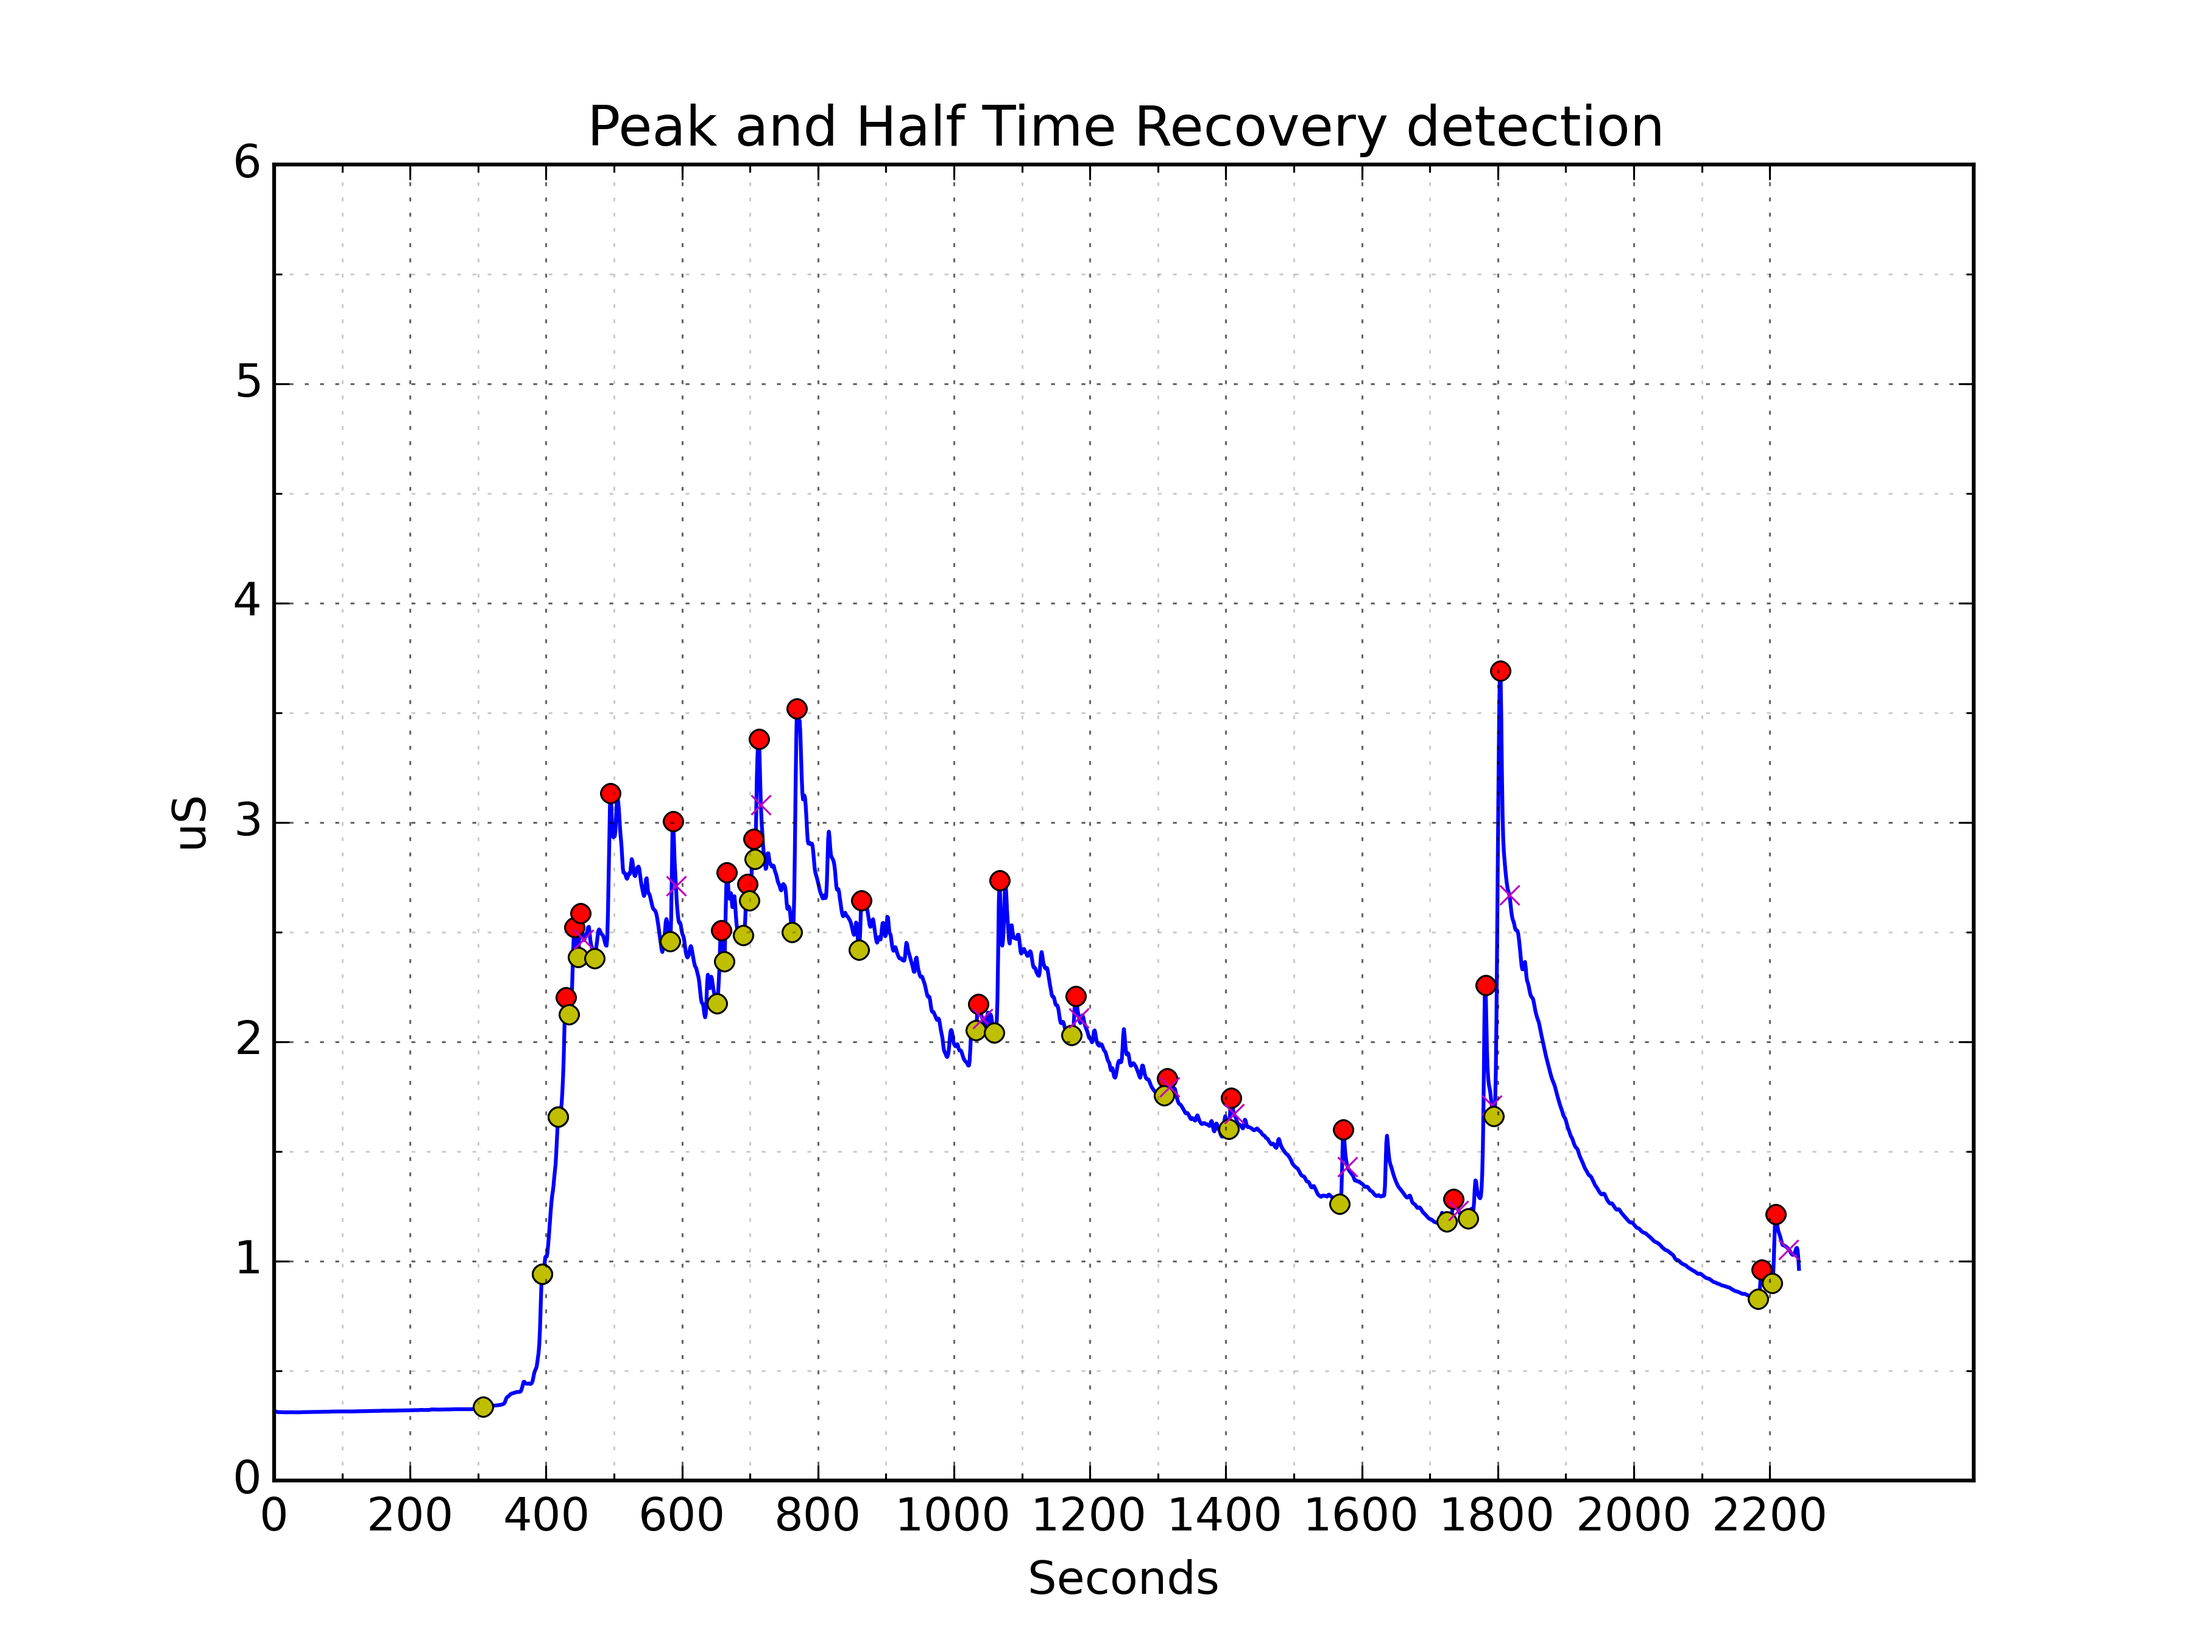
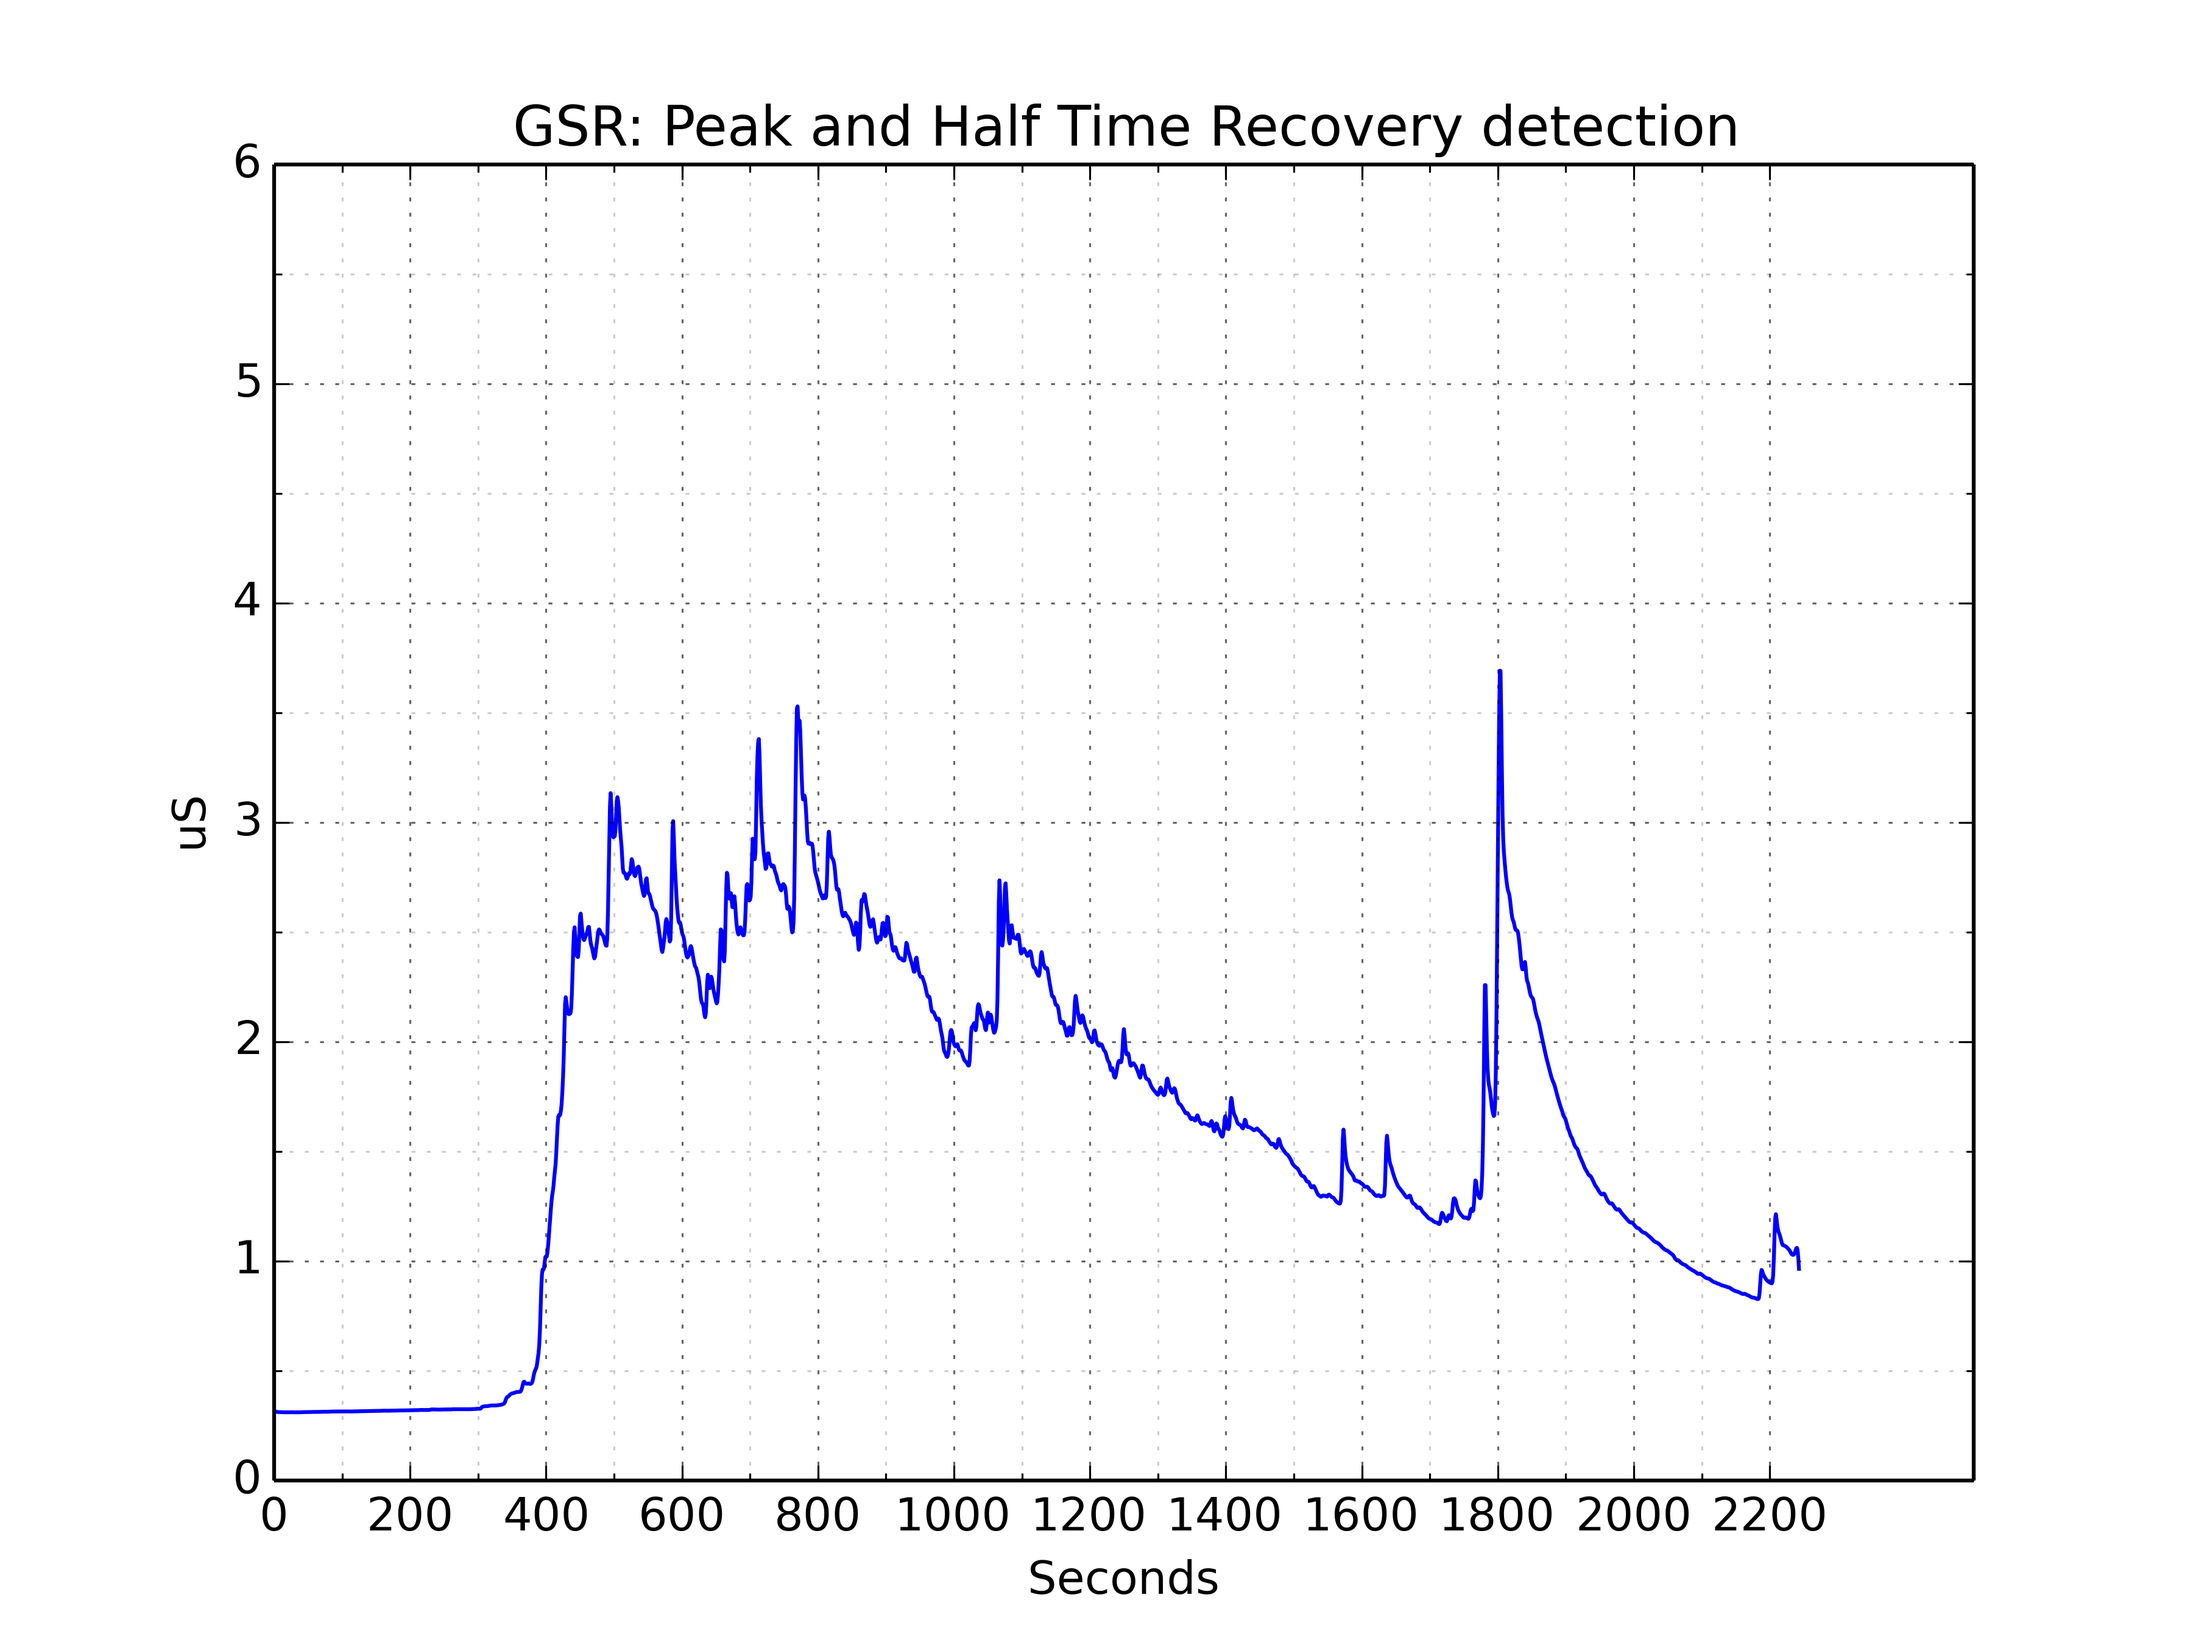
FAST

diff --git a/HalfRecoveryTimeDetector.py b/HalfRecoveryTimeDetector.py
@@ -112,14 +112,26 @@ class HalfRecoveryTimeDetector:
 			_ylim = [0,6]
 		plt.ylim(_ylim)
 		plt.xlim(_xlim)
+		_peaksToPlotX =[]
+		_peaksToPlotY =[]
+		_risingsToPlotX =[]
+		_risingsToPlotY =[]
+		_hrtToPlotX =[]
+		_hrtToPlotY =[]
 		for _p in self._peaks:
 			#overplot rising point and peak
-			plt.plot(  int(_p["peakIndex"]) , self._gaussianData[int(_p["peakIndex"])],color='r',marker="o",markersize=5 )
-			plt.plot(  _p["risingTimeIndex"],self._gaussianData[_p["risingTimeIndex"]],color='y',marker="o",markersize=5)
-			#overplot the HRT
+			_peaksToPlotX.append( int(_p["peakIndex"]))
+			_peaksToPlotY.append(  self._gaussianData[int(_p["peakIndex"])])
+			_risingsToPlotX.append( _p["risingTimeIndex"])
+			_risingsToPlotY.append( self._gaussianData[_p["risingTimeIndex"]])
 			if _p["halfRecoveryIndex"] != None:
-				plt.plot(  int(_p["halfRecoveryIndex"])  , self._gaussianData[ int(_p["halfRecoveryIndex"]) ],color='m',marker="x",markersize=5)
+				_hrtToPlotX.append(  int(_p["halfRecoveryIndex"]))
+				_hrtToPlotY.append( self._gaussianData[ int(_p["halfRecoveryIndex"])])
 
+		plt.plot(_peaksToPlotX,_peaksToPlotY,  color='r',marker="o",markersize=5,linestyle='None' )
+		plt.plot(_risingsToPlotX,_risingsToPlotY,  color='y',marker="o",markersize=5,linestyle='None')
+		plt.plot(_hrtToPlotX,_hrtToPlotY, color='m',marker="x",markersize=5,linestyle='None')
+		#overplot the HRT
 		#save it! Because.. humans
 		plt.savefig(figname,dpi=450)
         def toJson(self):

diff --git a/process.py b/process.py
@@ -470,4 +470,3 @@ if (__name__ == "__main__"):
                 _data = s.groupBySec(s._dataGSR,True,False)
                 htr = HalfRecoveryTimeDetector(_data)
                 htr.plot("p10/mirna_relax2/plots/mirna_relax_HTR",[0,10])
-
